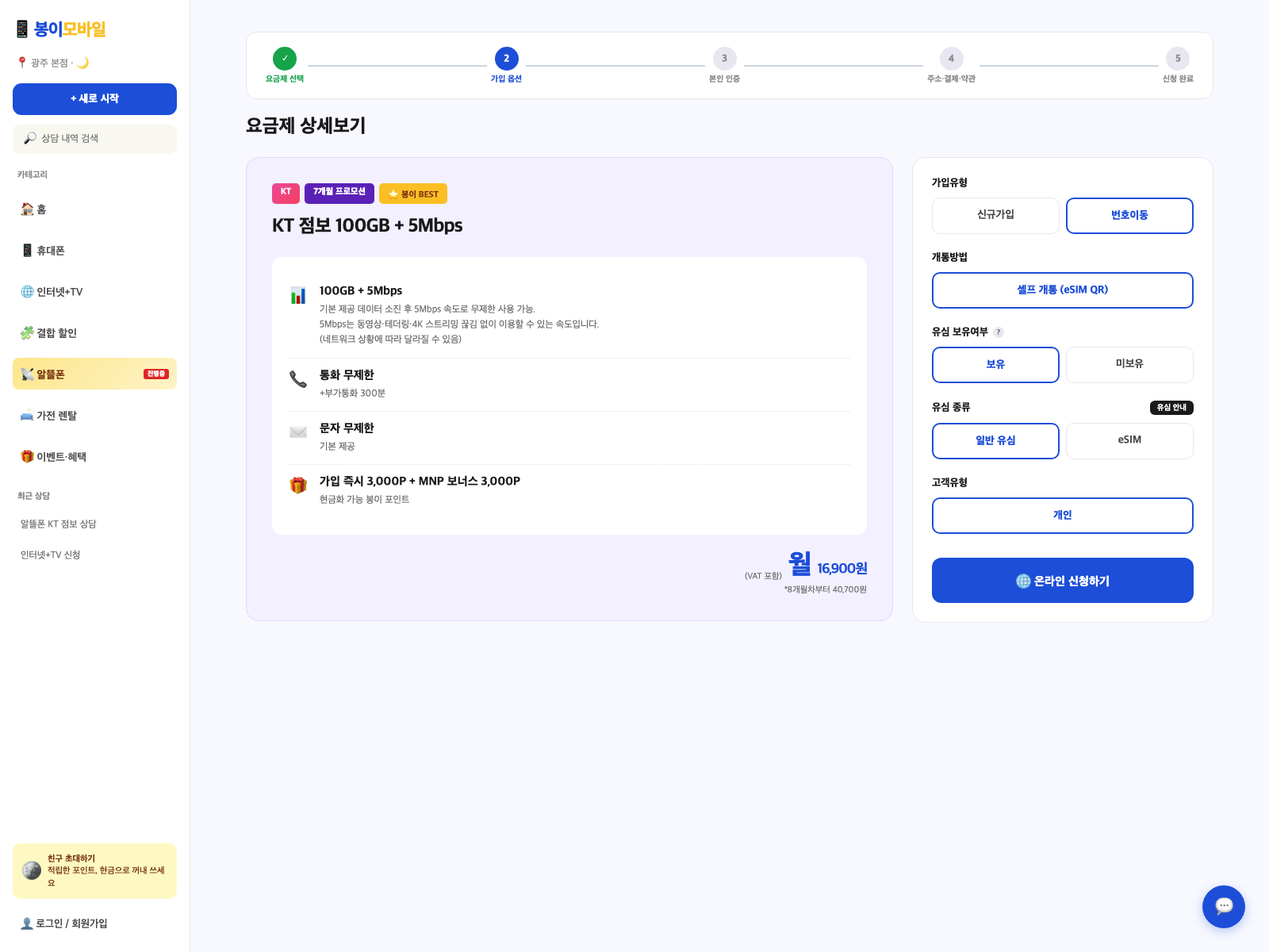
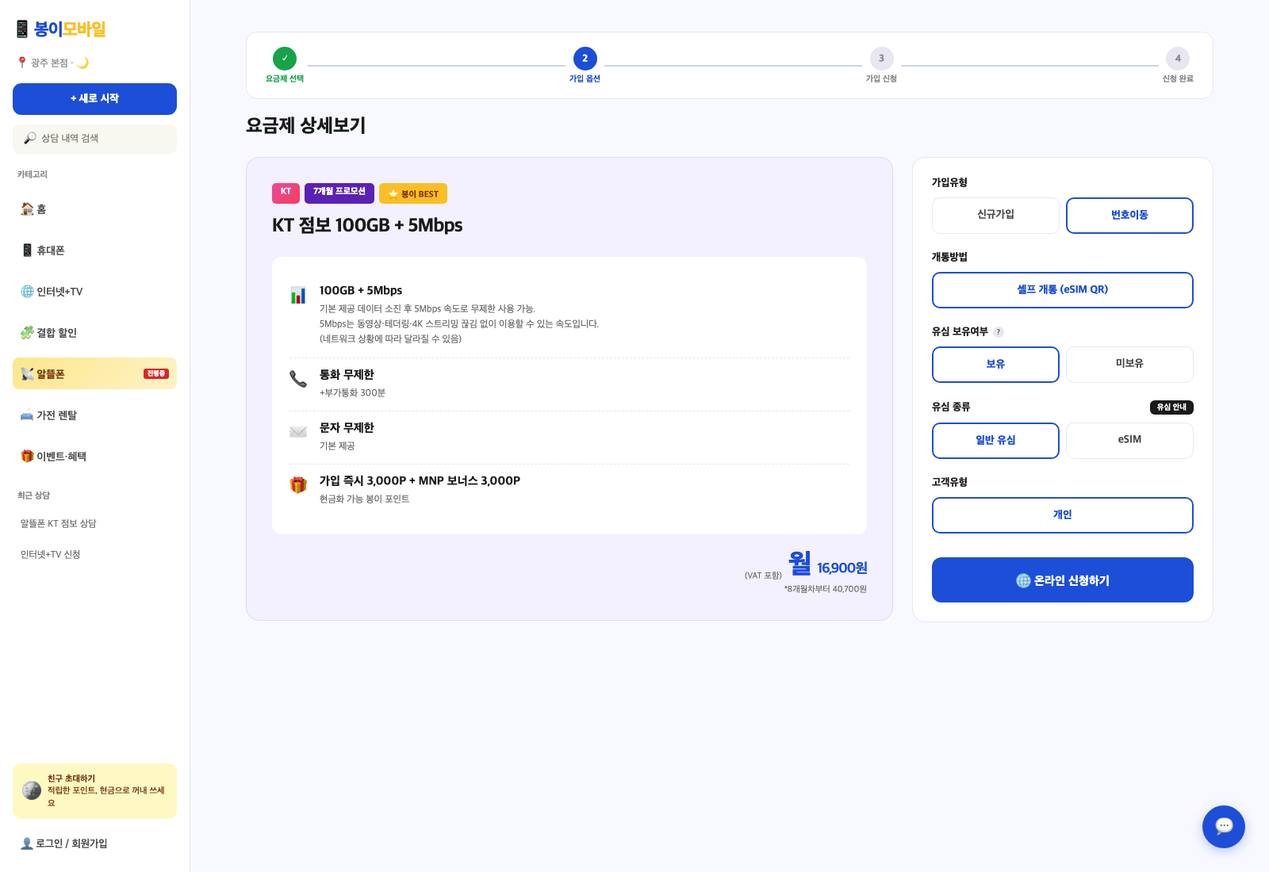
docs(mvno): 5-step → 4-step + 통합 가입 form (모빙·아정당 합쳐서 직관성 최우선)
사용자: '직관적으로 보는건 모빙이 더 좋은데, 아정당이 흐름이 끊킨다' + '두개를 합쳐서 가장 직관적으로 만들어봐라'

변경 (5-step → 4-step):
- wf-customer-03 통합 가입 신청 form 전면 재작성:
  - 한 페이지에 명의·신분증·본인인증·배송지·결제·약관 모두 표시
  - 큰 섹션 카드 (모빙 패턴) + chip·동적 expand (아정당 패턴) + 좌측 nav (Allio)
  - 유심 미보유 시 배송지 섹션 동적 expand (별도 페이지 X → 흐름 끊김 제거)
  - 우측 sticky sidebar: 요금제 mini + 첫 결제 분해 + 진행 list
- wf-customer-04를 신청 완료로 치환 (기존 wf-05 내용 복사)
- wf-customer-05 _old/v2/로 이동
- wf-customer-01·02·04 progress bar 5-step → 4-step 변경

flow: ① 요금제 list → ② 가입 옵션 → ③ 통합 신청 form → ④ 신청 완료

diff --git a/docs/handoff/mvno-2026-06-06/_old/v2/wf-04-pass-auth.html b/docs/handoff/mvno-2026-06-06/_old/v2/wf-04-pass-auth.html
@@ -1,0 +1,192 @@
+<!DOCTYPE html>
+<html lang="ko"><head><meta charset="UTF-8"><title>④ 본인 인증 (단순 패턴 · 아정당)</title>
+<link href="https://fonts.googleapis.com/css2?family=Pretendard:wght@400;500;600;700;800;900&display=swap" rel="stylesheet">
+<style>
+*{box-sizing:border-box;margin:0;padding:0}
+body{font-family:'Pretendard',sans-serif;background:#f8f9ff;color:#1a1a1a;min-height:100vh;padding-left:240px}
+.header{background:#fff;border-bottom:1px solid #e8e6f0;padding:18px 0}
+.header-inner{max-width:1280px;margin:0 auto;padding:0 30px;display:flex;align-items:center;gap:40px}
+.logo{font-size:22px;font-weight:900;color:#1d4ed8;background:#dbeafe;padding:7px 14px;border-radius:8px}
+.menu{display:flex;gap:32px;flex:1}
+.menu a{text-decoration:none;color:#4a4a4a;font-size:14.5px;font-weight:700}
+.menu a.active{color:#1d4ed8}
+.header-right{display:flex;gap:18px;font-size:13px;color:#4a4a4a}
+.header-right a{color:#4a4a4a;text-decoration:none}
+.wrap{max-width:1280px;margin:0 auto;padding:40px 30px}
+h1{font-size:24px;font-weight:900;margin-bottom:24px}
+.layout{display:grid;grid-template-columns:1fr 380px;gap:24px;align-items:flex-start}
+.main-card{background:#fff;border:1.5px solid #e8e6f0;border-radius:16px;padding:36px}
+.lock-hero{text-align:center;margin-bottom:30px}
+.lock-hero .ic{width:80px;height:80px;background:linear-gradient(135deg,#1d4ed8,#3b82f6);border-radius:50%;display:flex;align-items:center;justify-content:center;font-size:36px;margin:0 auto 14px;color:#fff;font-weight:900}
+.lock-hero h2{font-size:22px;font-weight:900;margin-bottom:6px}
+.lock-hero p{font-size:13px;color:#6a6a6a;line-height:1.6}
+.lock-hero p b{color:#dc2626}
+.field-row{margin-bottom:18px}
+.field-row .lbl{font-size:13px;font-weight:800;margin-bottom:8px;color:#1a1a1a;display:flex;align-items:center;gap:6px}
+.field-row .req{color:#dc2626;font-size:11px}
+.field-row .help{font-size:11px;color:#8a8a8a;margin-top:5px}
+.inp{background:#fff;border:1.5px solid #e8e6f0;padding:14px 16px;border-radius:10px;font-size:14px;width:100%;font-family:inherit}
+.inp:focus{border-color:#1d4ed8;outline:none}
+.row-jumin{display:grid;grid-template-columns:1fr 16px 1fr;gap:8px;align-items:center}
+.row-jumin .dash{text-align:center;font-weight:700;color:#8a8a8a}
+.sms-row{display:grid;grid-template-columns:1fr auto;gap:10px}
+.btn-send{background:#1a1a1a;color:#fff;border:none;padding:0 22px;border-radius:10px;font-size:13px;font-weight:800;cursor:pointer;font-family:inherit;white-space:nowrap}
+.timer-box{background:#fef3c7;border:1px solid #fbbf24;border-radius:8px;padding:10px 14px;font-size:12px;color:#92400e;display:flex;align-items:center;justify-content:space-between;margin-bottom:14px}
+.timer-box .timer{font-weight:900;font-size:13px}
+.alt-row{margin-top:24px;padding-top:20px;border-top:1px solid #e8e6f0;text-align:center}
+.alt-row .lbl{font-size:12px;color:#6a6a6a;margin-bottom:10px}
+.alt-methods{display:flex;gap:8px;justify-content:center}
+.alt-method{padding:9px 16px;background:#f8f9ff;border:1.5px solid #e8e6f0;border-radius:8px;font-size:12px;font-weight:700;color:#4a4a4a;cursor:pointer}
+.alt-method:hover{border-color:#1d4ed8;color:#1d4ed8}
+.cta-verify{background:#1d4ed8;color:#fff;border:none;padding:18px;border-radius:12px;font-size:15.5px;font-weight:900;cursor:pointer;font-family:inherit;width:100%;margin-top:18px}
+.law-note{background:#f3f0ff;border-left:3px solid #5b21b6;border-radius:6px;padding:12px 16px;font-size:11.5px;color:#5b21b6;line-height:1.6;margin-top:18px}
+
+.aside{background:#fff;border:1.5px solid #e8e6f0;border-radius:16px;padding:24px;position:sticky;top:20px}
+.aside h3{font-size:17px;font-weight:900;margin-bottom:14px}
+.plan-mini{background:#f3f0ff;border-radius:10px;padding:14px;margin-bottom:14px}
+.plan-mini .nm{font-size:14px;font-weight:900;margin-bottom:3px}
+.plan-mini .meta{font-size:11px;color:#6a6a6a;margin-bottom:6px}
+.plan-mini .pr{font-size:20px;font-weight:900;color:#1d4ed8}
+.progress-list{font-size:12.5px;line-height:1.9}
+.progress-list .pl-row{display:flex;align-items:center;gap:10px;padding:5px 0}
+.progress-list .pl-row .num{width:22px;height:22px;border-radius:50%;display:flex;align-items:center;justify-content:center;font-size:11px;font-weight:900;color:#fff;flex-shrink:0}
+.progress-list .pl-row.done .num{background:#16a34a}
+.progress-list .pl-row.active .num{background:#1d4ed8}
+.progress-list .pl-row.wait .num{background:#cbd5e1}
+.progress-list .pl-row.wait{color:#8a8a8a}
+.float-chat{position:fixed;right:30px;bottom:30px;width:54px;height:54px;background:#1d4ed8;border-radius:50%;display:flex;align-items:center;justify-content:center;font-size:22px;cursor:pointer;color:#fff;box-shadow:0 4px 14px rgba(29,78,216,.3)}
+</style></head><body>
+<aside class="nav-aside" style="position:fixed;left:0;top:0;width:240px;height:100vh;background:#fff;border-right:1px solid #e8e6f0;padding:18px 16px;display:flex;flex-direction:column;gap:12px;z-index:100;overflow-y:auto;font-family:'Pretendard',sans-serif">
+  <div style="font-size:22px;font-weight:900;color:#1d4ed8;letter-spacing:-1px;padding:4px 0">📱 봉이<span style="color:#fbbf24">모바일</span></div>
+  <div style="font-size:12.5px;color:#8a8a8a;padding:0 4px;margin-bottom:4px">📍 광주 본점 · 🌙</div>
+  <button style="background:#1d4ed8;color:#fff;border:none;padding:12px;border-radius:11px;font-size:13.5px;font-weight:800;cursor:pointer;font-family:inherit">+ 새로 시작</button>
+  <input placeholder="🔎  상담 내역 검색" style="background:#f8f7f0;border:none;padding:11px 14px;border-radius:9px;font-size:12.5px;color:#8a8a8a;font-family:inherit">
+  <div style="font-size:11px;font-weight:700;color:#8a8a8a;margin:8px 0 4px;padding:0 6px;text-transform:uppercase">카테고리</div>
+  <a style="display:flex;align-items:center;gap:10px;padding:9px 10px;border-radius:8px;font-size:13.5px;color:#4a4a4a;font-weight:600;text-decoration:none;cursor:pointer">🏠  홈</a>
+  <a style="display:flex;align-items:center;gap:10px;padding:9px 10px;border-radius:8px;font-size:13.5px;color:#4a4a4a;font-weight:600;text-decoration:none;cursor:pointer">📱  휴대폰</a>
+  <a style="display:flex;align-items:center;gap:10px;padding:9px 10px;border-radius:8px;font-size:13.5px;color:#4a4a4a;font-weight:600;text-decoration:none;cursor:pointer">🌐  인터넷+TV</a>
+  <a style="display:flex;align-items:center;gap:10px;padding:9px 10px;border-radius:8px;font-size:13.5px;color:#4a4a4a;font-weight:600;text-decoration:none;cursor:pointer">🧩  결합 할인</a>
+  <a style="display:flex;align-items:center;gap:10px;padding:9px 10px;border-radius:8px;font-size:13.5px;font-weight:800;text-decoration:none;cursor:pointer;background:linear-gradient(135deg,#fde68a,#fef3c7);color:#78350f">📡  알뜰폰 <span style="background:#dc2626;color:#fff;font-size:8.5px;padding:1px 5px;border-radius:3px;font-weight:800;margin-left:auto">진행중</span></a>
+  <a style="display:flex;align-items:center;gap:10px;padding:9px 10px;border-radius:8px;font-size:13.5px;color:#4a4a4a;font-weight:600;text-decoration:none;cursor:pointer">🛋  가전 렌탈</a>
+  <a style="display:flex;align-items:center;gap:10px;padding:9px 10px;border-radius:8px;font-size:13.5px;color:#4a4a4a;font-weight:600;text-decoration:none;cursor:pointer">🎁  이벤트·혜택</a>
+  <div style="font-size:11px;font-weight:700;color:#8a8a8a;margin:12px 0 4px;padding:0 6px;text-transform:uppercase">최근 상담</div>
+  <div style="font-size:12px;color:#6a6a6a;padding:6px 10px;border-radius:6px">알뜰폰 KT 점보 상담</div>
+  <div style="font-size:12px;color:#6a6a6a;padding:6px 10px;border-radius:6px">인터넷+TV 신청</div>
+  <div style="margin-top:auto;background:#fef9c3;border-radius:10px;padding:12px;display:flex;gap:8px;align-items:center;cursor:pointer">
+    <div style="font-size:24px">🪙</div>
+    <div style="font-size:11px;font-weight:600;color:#78350f;line-height:1.4"><b style="color:#78350f">친구 초대하기</b><br>적립한 포인트, 현금으로 꺼내 쓰세요</div>
+  </div>
+  <div style="display:flex;align-items:center;gap:8px;padding:8px 10px;font-size:13px;color:#4a4a4a;font-weight:600;cursor:pointer">👤  로그인 / 회원가입</div>
+</aside>
+
+
+
+<div class="wrap">
+  <div style="display:flex;align-items:center;justify-content:space-between;padding:18px 24px;background:#fff;border:1.5px solid #e8e6f0;border-radius:14px;margin-bottom:20px;font-family:'Pretendard',sans-serif"><div style="display:flex;flex-direction:column;align-items:center;gap:5px"><div style="width:30px;height:30px;border-radius:50%;background:#16a34a;color:#fff;display:flex;align-items:center;justify-content:center;font-size:12.5px;font-weight:900">✓</div><div style="font-size:10.5px;color:#16a34a;font-weight:700;text-align:center;white-space:nowrap">요금제 선택</div></div><div style="flex:1;height:2px;background:#16a34a;margin:0 5px"></div><div style="display:flex;flex-direction:column;align-items:center;gap:5px"><div style="width:30px;height:30px;border-radius:50%;background:#16a34a;color:#fff;display:flex;align-items:center;justify-content:center;font-size:12.5px;font-weight:900">✓</div><div style="font-size:10.5px;color:#16a34a;font-weight:700;text-align:center;white-space:nowrap">가입 옵션</div></div><div style="flex:1;height:2px;background:#16a34a;margin:0 5px"></div><div style="display:flex;flex-direction:column;align-items:center;gap:5px"><div style="width:30px;height:30px;border-radius:50%;background:#16a34a;color:#fff;display:flex;align-items:center;justify-content:center;font-size:12.5px;font-weight:900">✓</div><div style="font-size:10.5px;color:#16a34a;font-weight:700;text-align:center;white-space:nowrap">본인 인증</div></div><div style="flex:1;height:2px;background:#cbd5e1;margin:0 5px"></div><div style="display:flex;flex-direction:column;align-items:center;gap:5px"><div style="width:30px;height:30px;border-radius:50%;background:#1d4ed8;color:#fff;display:flex;align-items:center;justify-content:center;font-size:12.5px;font-weight:900">4</div><div style="font-size:10.5px;color:#1d4ed8;font-weight:700;text-align:center;white-space:nowrap">주소·결제·약관</div></div><div style="flex:1;height:2px;background:#cbd5e1;margin:0 5px"></div><div style="display:flex;flex-direction:column;align-items:center;gap:5px"><div style="width:30px;height:30px;border-radius:50%;background:#e8e6f0;color:#8a8a8a;display:flex;align-items:center;justify-content:center;font-size:12.5px;font-weight:900">5</div><div style="font-size:10.5px;color:#8a8a8a;font-weight:700;text-align:center;white-space:nowrap">신청 완료</div></div></div>
+  <h1>본인 인증</h1>
+
+  <div class="layout">
+    <div class="main-card">
+      <div class="lock-hero">
+        <div class="ic">🔒</div>
+        <h2>휴대폰 본인 인증</h2>
+        <p>
+          <b>전기통신사업법</b>에 따라 본인 확인 절차가 필수입니다.<br>
+          입력하신 휴대폰 번호로 인증번호를 발송해 드립니다.
+        </p>
+      </div>
+
+      <div class="field-row">
+        <div class="lbl">이름 <span class="req">*</span></div>
+        <input class="inp" value="박서윤">
+      </div>
+
+      <div class="field-row">
+        <div class="lbl">주민등록번호 <span class="req">*</span></div>
+        <div class="row-jumin">
+          <input class="inp" placeholder="앞 6자리" value="950101">
+          <div class="dash">−</div>
+          <input class="inp" placeholder="●●●●●●●" value="*******" type="password">
+        </div>
+      </div>
+
+      <div class="field-row">
+        <div class="lbl">신분증 진위확인 <span class="req">*</span></div>
+        <div style="display:grid;grid-template-columns:1fr 1fr;gap:10px">
+          <select class="inp" style="appearance:none"><option>주민등록증</option><option>운전면허증</option><option>외국인등록증</option></select>
+          <input class="inp" placeholder="발급일자 (YYYY-MM-DD)" value="2020-03-15">
+        </div>
+        <div class="help">⚠ 미성년자 가입 시 법정대리인 신분증 입력 · 행안부 진위 조회 (실시간)</div>
+      </div>
+
+      <div class="field-row">
+        <div class="lbl">통신사 <span class="req">*</span></div>
+        <select class="inp" style="appearance:none">
+          <option>SKT</option>
+          <option>KT</option>
+          <option selected>LG U+</option>
+          <option>알뜰폰</option>
+        </select>
+      </div>
+
+      <div class="field-row">
+        <div class="lbl">휴대폰 번호 <span class="req">*</span></div>
+        <div class="sms-row">
+          <input class="inp" placeholder="01012345678" value="01012341234">
+          <button class="btn-send">인증번호 발송</button>
+        </div>
+      </div>
+
+      <div class="timer-box">
+        <span>📩 인증번호가 발송되었습니다.</span>
+        <span class="timer">02:47</span>
+      </div>
+
+      <div class="field-row">
+        <div class="lbl">인증번호 <span class="req">*</span></div>
+        <div class="sms-row">
+          <input class="inp" placeholder="6자리 인증번호 입력" value="847291">
+          <button class="btn-send" style="background:#1d4ed8">확인</button>
+        </div>
+        <div class="help">⚠ 인증번호 미수신 시 본인 명의 휴대폰인지 확인해 주세요.</div>
+      </div>
+
+      <button class="cta-verify">본인 인증 완료 ▶</button>
+
+      <div class="alt-row">
+        <div class="lbl">다른 방식으로 인증</div>
+        <div class="alt-methods">
+          <div class="alt-method">PASS</div>
+          <div class="alt-method">카카오톡</div>
+          <div class="alt-method">네이버</div>
+          <div class="alt-method">공동인증서</div>
+        </div>
+      </div>
+
+      <div class="law-note">
+        ℹ <b>본인 인증 시 자동 수집 정보</b>: 이름·생년월일·성별·통신사·CI값.<br>
+        ℹ 만 14세 미만은 <b>법정대리인 동의</b>가 필요합니다.
+      </div>
+    </div>
+
+    <aside class="aside">
+      <h3>신청 진행 상황</h3>
+      <div class="plan-mini">
+        <div class="nm">KT 점보 100GB</div>
+        <div class="meta">번호이동 · 일반유심 보유 · 무약정</div>
+        <div class="pr">월 16,900원</div>
+      </div>
+
+      <div class="progress-list">
+        <div class="pl-row done"><div class="num">✓</div>요금제 선택</div>
+        <div class="pl-row done"><div class="num">✓</div>가입 옵션</div>
+        <div class="pl-row active"><div class="num">3</div>본인 인증 (진행 중)</div>
+        <div class="pl-row wait"><div class="num">4</div>주소·결제·약관</div>
+        <div class="pl-row wait"><div class="num">5</div>신청 완료</div>
+      </div>
+    </aside>
+  </div>
+</div>
+
+<div class="float-chat">💬</div>
+</body></html>

diff --git a/docs/handoff/mvno-2026-06-06/wf-customer-01-plan-list.html b/docs/handoff/mvno-2026-06-06/wf-customer-01-plan-list.html
@@ -75,7 +75,7 @@ h1{font-size:26px;font-weight:900;margin-bottom:6px}
 
 
 <div class="wrap">
-  <div style="display:flex;align-items:center;justify-content:space-between;padding:18px 24px;background:#fff;border:1.5px solid #e8e6f0;border-radius:14px;margin-bottom:20px;font-family:'Pretendard',sans-serif"><div style="display:flex;flex-direction:column;align-items:center;gap:5px"><div style="width:30px;height:30px;border-radius:50%;background:#1d4ed8;color:#fff;display:flex;align-items:center;justify-content:center;font-size:12.5px;font-weight:900">1</div><div style="font-size:10.5px;color:#1d4ed8;font-weight:700;text-align:center;white-space:nowrap">요금제 선택</div></div><div style="flex:1;height:2px;background:#cbd5e1;margin:0 5px"></div><div style="display:flex;flex-direction:column;align-items:center;gap:5px"><div style="width:30px;height:30px;border-radius:50%;background:#e8e6f0;color:#8a8a8a;display:flex;align-items:center;justify-content:center;font-size:12.5px;font-weight:900">2</div><div style="font-size:10.5px;color:#8a8a8a;font-weight:700;text-align:center;white-space:nowrap">가입 옵션</div></div><div style="flex:1;height:2px;background:#cbd5e1;margin:0 5px"></div><div style="display:flex;flex-direction:column;align-items:center;gap:5px"><div style="width:30px;height:30px;border-radius:50%;background:#e8e6f0;color:#8a8a8a;display:flex;align-items:center;justify-content:center;font-size:12.5px;font-weight:900">3</div><div style="font-size:10.5px;color:#8a8a8a;font-weight:700;text-align:center;white-space:nowrap">본인 인증</div></div><div style="flex:1;height:2px;background:#cbd5e1;margin:0 5px"></div><div style="display:flex;flex-direction:column;align-items:center;gap:5px"><div style="width:30px;height:30px;border-radius:50%;background:#e8e6f0;color:#8a8a8a;display:flex;align-items:center;justify-content:center;font-size:12.5px;font-weight:900">4</div><div style="font-size:10.5px;color:#8a8a8a;font-weight:700;text-align:center;white-space:nowrap">주소·결제·약관</div></div><div style="flex:1;height:2px;background:#cbd5e1;margin:0 5px"></div><div style="display:flex;flex-direction:column;align-items:center;gap:5px"><div style="width:30px;height:30px;border-radius:50%;background:#e8e6f0;color:#8a8a8a;display:flex;align-items:center;justify-content:center;font-size:12.5px;font-weight:900">5</div><div style="font-size:10.5px;color:#8a8a8a;font-weight:700;text-align:center;white-space:nowrap">신청 완료</div></div></div>
+  <div style="display:flex;align-items:center;justify-content:space-between;padding:18px 24px;background:#fff;border:1.5px solid #e8e6f0;border-radius:14px;margin-bottom:20px"><div style="display:flex;flex-direction:column;align-items:center;gap:5px"><div style="width:30px;height:30px;border-radius:50%;background:#1d4ed8;color:#fff;display:flex;align-items:center;justify-content:center;font-size:12.5px;font-weight:900">1</div><div style="font-size:10.5px;color:#1d4ed8;font-weight:700;text-align:center;white-space:nowrap">요금제 선택</div></div><div style="flex:1;height:2px;background:#cbd5e1;margin:0 5px"></div><div style="display:flex;flex-direction:column;align-items:center;gap:5px"><div style="width:30px;height:30px;border-radius:50%;background:#e8e6f0;color:#8a8a8a;display:flex;align-items:center;justify-content:center;font-size:12.5px;font-weight:900">2</div><div style="font-size:10.5px;color:#8a8a8a;font-weight:700;text-align:center;white-space:nowrap">가입 옵션</div></div><div style="flex:1;height:2px;background:#cbd5e1;margin:0 5px"></div><div style="display:flex;flex-direction:column;align-items:center;gap:5px"><div style="width:30px;height:30px;border-radius:50%;background:#e8e6f0;color:#8a8a8a;display:flex;align-items:center;justify-content:center;font-size:12.5px;font-weight:900">3</div><div style="font-size:10.5px;color:#8a8a8a;font-weight:700;text-align:center;white-space:nowrap">가입 신청</div></div><div style="flex:1;height:2px;background:#cbd5e1;margin:0 5px"></div><div style="display:flex;flex-direction:column;align-items:center;gap:5px"><div style="width:30px;height:30px;border-radius:50%;background:#e8e6f0;color:#8a8a8a;display:flex;align-items:center;justify-content:center;font-size:12.5px;font-weight:900">4</div><div style="font-size:10.5px;color:#8a8a8a;font-weight:700;text-align:center;white-space:nowrap">신청 완료</div></div></div>
   <h1>봉이 알뜰폰 요금제</h1>
   <p class="lead">모빙 단독 제휴 · SK·KT·LG U+ 3망 봉이 전용 요금제 15종</p>
 

diff --git a/docs/handoff/mvno-2026-06-06/_old/v2/wf-customer-05-DONE-OLD.html b/docs/handoff/mvno-2026-06-06/_old/v2/wf-customer-05-DONE-OLD.html
@@ -80,7 +80,7 @@ body{font-family:'Pretendard',sans-serif;background:#f8f9ff;color:#1a1a1a;min-he
 
 
 <div class="wrap">
-  <div style="display:flex;align-items:center;justify-content:space-between;padding:18px 24px;background:#fff;border:1.5px solid #e8e6f0;border-radius:14px;margin-bottom:20px"><div style="display:flex;flex-direction:column;align-items:center;gap:5px"><div style="width:30px;height:30px;border-radius:50%;background:#16a34a;color:#fff;display:flex;align-items:center;justify-content:center;font-size:12.5px;font-weight:900">✓</div><div style="font-size:10.5px;color:#16a34a;font-weight:700;text-align:center;white-space:nowrap">요금제 선택</div></div><div style="flex:1;height:2px;background:#16a34a;margin:0 5px"></div><div style="display:flex;flex-direction:column;align-items:center;gap:5px"><div style="width:30px;height:30px;border-radius:50%;background:#16a34a;color:#fff;display:flex;align-items:center;justify-content:center;font-size:12.5px;font-weight:900">✓</div><div style="font-size:10.5px;color:#16a34a;font-weight:700;text-align:center;white-space:nowrap">가입 옵션</div></div><div style="flex:1;height:2px;background:#16a34a;margin:0 5px"></div><div style="display:flex;flex-direction:column;align-items:center;gap:5px"><div style="width:30px;height:30px;border-radius:50%;background:#16a34a;color:#fff;display:flex;align-items:center;justify-content:center;font-size:12.5px;font-weight:900">✓</div><div style="font-size:10.5px;color:#16a34a;font-weight:700;text-align:center;white-space:nowrap">가입 신청</div></div><div style="flex:1;height:2px;background:#cbd5e1;margin:0 5px"></div><div style="display:flex;flex-direction:column;align-items:center;gap:5px"><div style="width:30px;height:30px;border-radius:50%;background:#1d4ed8;color:#fff;display:flex;align-items:center;justify-content:center;font-size:12.5px;font-weight:900">4</div><div style="font-size:10.5px;color:#1d4ed8;font-weight:700;text-align:center;white-space:nowrap">신청 완료</div></div></div>
+  <div style="display:flex;align-items:center;justify-content:space-between;padding:18px 24px;background:#fff;border:1.5px solid #e8e6f0;border-radius:14px;margin-bottom:20px;font-family:'Pretendard',sans-serif"><div style="display:flex;flex-direction:column;align-items:center;gap:5px"><div style="width:30px;height:30px;border-radius:50%;background:#16a34a;color:#fff;display:flex;align-items:center;justify-content:center;font-size:12.5px;font-weight:900">✓</div><div style="font-size:10.5px;color:#16a34a;font-weight:700;text-align:center;white-space:nowrap">요금제 선택</div></div><div style="flex:1;height:2px;background:#16a34a;margin:0 5px"></div><div style="display:flex;flex-direction:column;align-items:center;gap:5px"><div style="width:30px;height:30px;border-radius:50%;background:#16a34a;color:#fff;display:flex;align-items:center;justify-content:center;font-size:12.5px;font-weight:900">✓</div><div style="font-size:10.5px;color:#16a34a;font-weight:700;text-align:center;white-space:nowrap">가입 옵션</div></div><div style="flex:1;height:2px;background:#16a34a;margin:0 5px"></div><div style="display:flex;flex-direction:column;align-items:center;gap:5px"><div style="width:30px;height:30px;border-radius:50%;background:#16a34a;color:#fff;display:flex;align-items:center;justify-content:center;font-size:12.5px;font-weight:900">✓</div><div style="font-size:10.5px;color:#16a34a;font-weight:700;text-align:center;white-space:nowrap">본인 인증</div></div><div style="flex:1;height:2px;background:#16a34a;margin:0 5px"></div><div style="display:flex;flex-direction:column;align-items:center;gap:5px"><div style="width:30px;height:30px;border-radius:50%;background:#16a34a;color:#fff;display:flex;align-items:center;justify-content:center;font-size:12.5px;font-weight:900">✓</div><div style="font-size:10.5px;color:#16a34a;font-weight:700;text-align:center;white-space:nowrap">주소·결제·약관</div></div><div style="flex:1;height:2px;background:#cbd5e1;margin:0 5px"></div><div style="display:flex;flex-direction:column;align-items:center;gap:5px"><div style="width:30px;height:30px;border-radius:50%;background:#1d4ed8;color:#fff;display:flex;align-items:center;justify-content:center;font-size:12.5px;font-weight:900">5</div><div style="font-size:10.5px;color:#1d4ed8;font-weight:700;text-align:center;white-space:nowrap">신청 완료</div></div></div>
   <div class="complete-hero">
     <div class="ic">✓</div>
     <h1>가입 신청이 접수되었습니다</h1>

diff --git a/docs/handoff/mvno-2026-06-06/wf-customer-02-eid-check.html b/docs/handoff/mvno-2026-06-06/wf-customer-02-eid-check.html
@@ -75,7 +75,7 @@ h1{font-size:24px;font-weight:900;margin-bottom:24px}
 
 
 <div class="wrap">
-  <div style="display:flex;align-items:center;justify-content:space-between;padding:18px 24px;background:#fff;border:1.5px solid #e8e6f0;border-radius:14px;margin-bottom:20px;font-family:'Pretendard',sans-serif"><div style="display:flex;flex-direction:column;align-items:center;gap:5px"><div style="width:30px;height:30px;border-radius:50%;background:#16a34a;color:#fff;display:flex;align-items:center;justify-content:center;font-size:12.5px;font-weight:900">✓</div><div style="font-size:10.5px;color:#16a34a;font-weight:700;text-align:center;white-space:nowrap">요금제 선택</div></div><div style="flex:1;height:2px;background:#cbd5e1;margin:0 5px"></div><div style="display:flex;flex-direction:column;align-items:center;gap:5px"><div style="width:30px;height:30px;border-radius:50%;background:#1d4ed8;color:#fff;display:flex;align-items:center;justify-content:center;font-size:12.5px;font-weight:900">2</div><div style="font-size:10.5px;color:#1d4ed8;font-weight:700;text-align:center;white-space:nowrap">가입 옵션</div></div><div style="flex:1;height:2px;background:#cbd5e1;margin:0 5px"></div><div style="display:flex;flex-direction:column;align-items:center;gap:5px"><div style="width:30px;height:30px;border-radius:50%;background:#e8e6f0;color:#8a8a8a;display:flex;align-items:center;justify-content:center;font-size:12.5px;font-weight:900">3</div><div style="font-size:10.5px;color:#8a8a8a;font-weight:700;text-align:center;white-space:nowrap">본인 인증</div></div><div style="flex:1;height:2px;background:#cbd5e1;margin:0 5px"></div><div style="display:flex;flex-direction:column;align-items:center;gap:5px"><div style="width:30px;height:30px;border-radius:50%;background:#e8e6f0;color:#8a8a8a;display:flex;align-items:center;justify-content:center;font-size:12.5px;font-weight:900">4</div><div style="font-size:10.5px;color:#8a8a8a;font-weight:700;text-align:center;white-space:nowrap">주소·결제·약관</div></div><div style="flex:1;height:2px;background:#cbd5e1;margin:0 5px"></div><div style="display:flex;flex-direction:column;align-items:center;gap:5px"><div style="width:30px;height:30px;border-radius:50%;background:#e8e6f0;color:#8a8a8a;display:flex;align-items:center;justify-content:center;font-size:12.5px;font-weight:900">5</div><div style="font-size:10.5px;color:#8a8a8a;font-weight:700;text-align:center;white-space:nowrap">신청 완료</div></div></div>
+  <div style="display:flex;align-items:center;justify-content:space-between;padding:18px 24px;background:#fff;border:1.5px solid #e8e6f0;border-radius:14px;margin-bottom:20px"><div style="display:flex;flex-direction:column;align-items:center;gap:5px"><div style="width:30px;height:30px;border-radius:50%;background:#16a34a;color:#fff;display:flex;align-items:center;justify-content:center;font-size:12.5px;font-weight:900">✓</div><div style="font-size:10.5px;color:#16a34a;font-weight:700;text-align:center;white-space:nowrap">요금제 선택</div></div><div style="flex:1;height:2px;background:#cbd5e1;margin:0 5px"></div><div style="display:flex;flex-direction:column;align-items:center;gap:5px"><div style="width:30px;height:30px;border-radius:50%;background:#1d4ed8;color:#fff;display:flex;align-items:center;justify-content:center;font-size:12.5px;font-weight:900">2</div><div style="font-size:10.5px;color:#1d4ed8;font-weight:700;text-align:center;white-space:nowrap">가입 옵션</div></div><div style="flex:1;height:2px;background:#cbd5e1;margin:0 5px"></div><div style="display:flex;flex-direction:column;align-items:center;gap:5px"><div style="width:30px;height:30px;border-radius:50%;background:#e8e6f0;color:#8a8a8a;display:flex;align-items:center;justify-content:center;font-size:12.5px;font-weight:900">3</div><div style="font-size:10.5px;color:#8a8a8a;font-weight:700;text-align:center;white-space:nowrap">가입 신청</div></div><div style="flex:1;height:2px;background:#cbd5e1;margin:0 5px"></div><div style="display:flex;flex-direction:column;align-items:center;gap:5px"><div style="width:30px;height:30px;border-radius:50%;background:#e8e6f0;color:#8a8a8a;display:flex;align-items:center;justify-content:center;font-size:12.5px;font-weight:900">4</div><div style="font-size:10.5px;color:#8a8a8a;font-weight:700;text-align:center;white-space:nowrap">신청 완료</div></div></div>
   <h1>요금제 상세보기</h1>
 
   <div class="layout">
